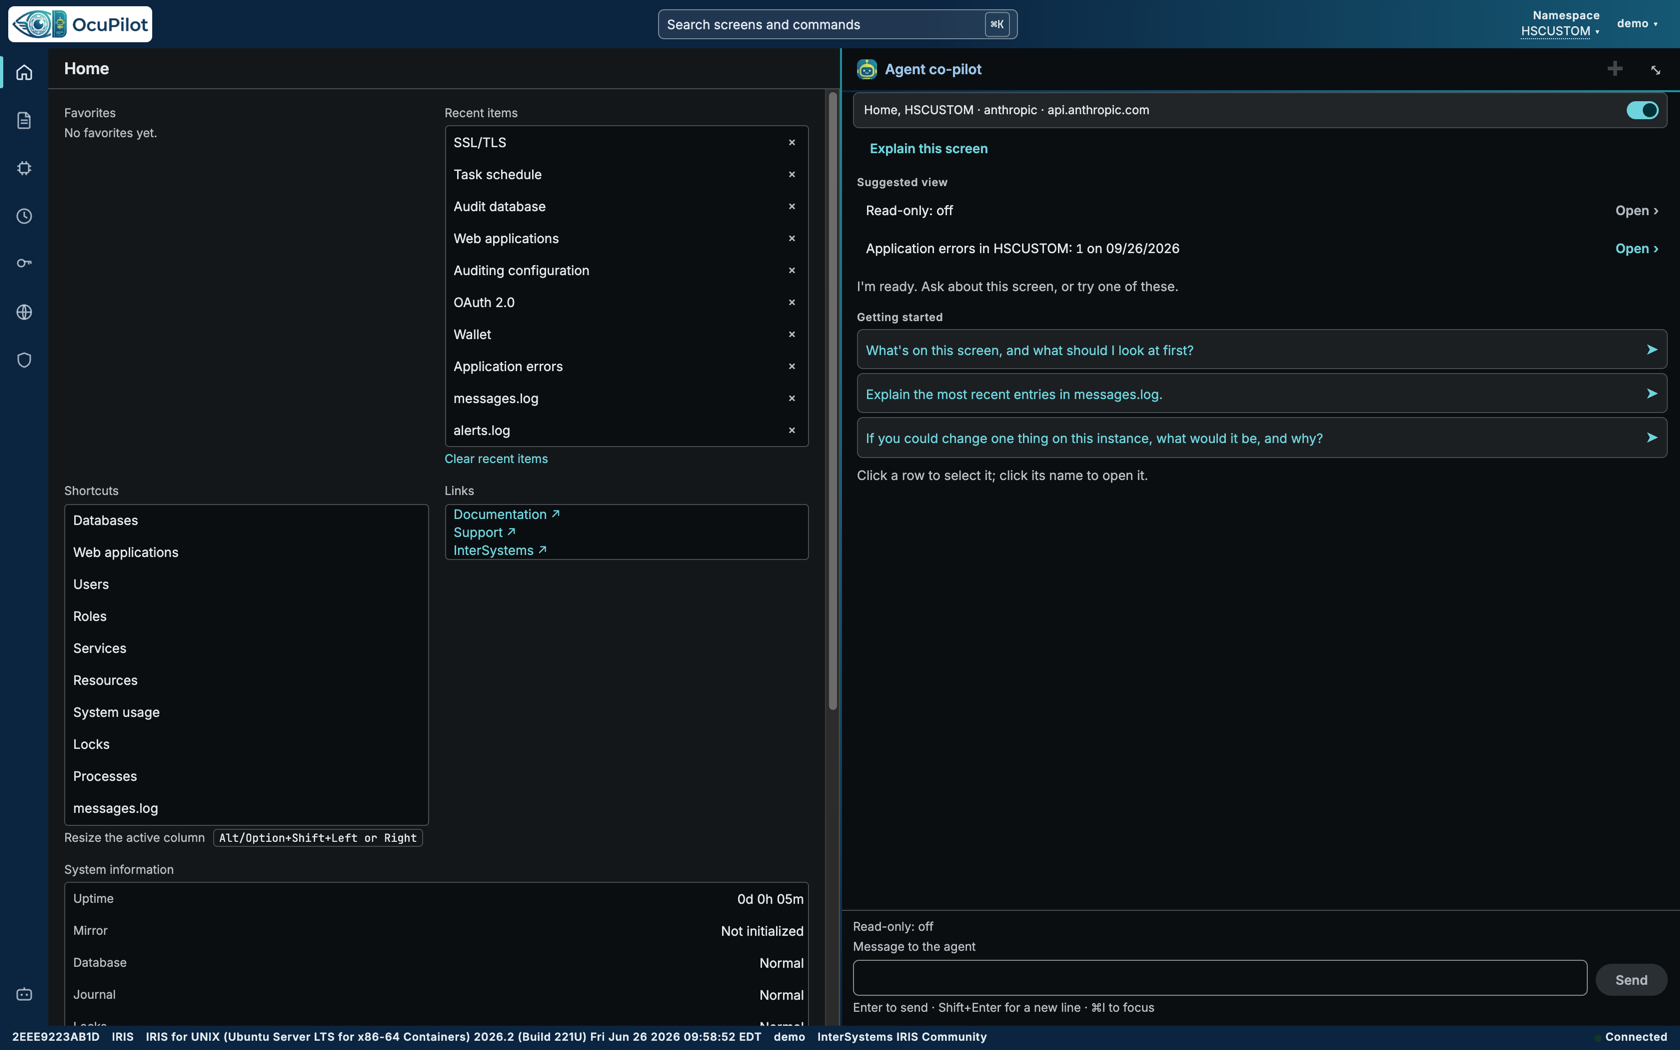
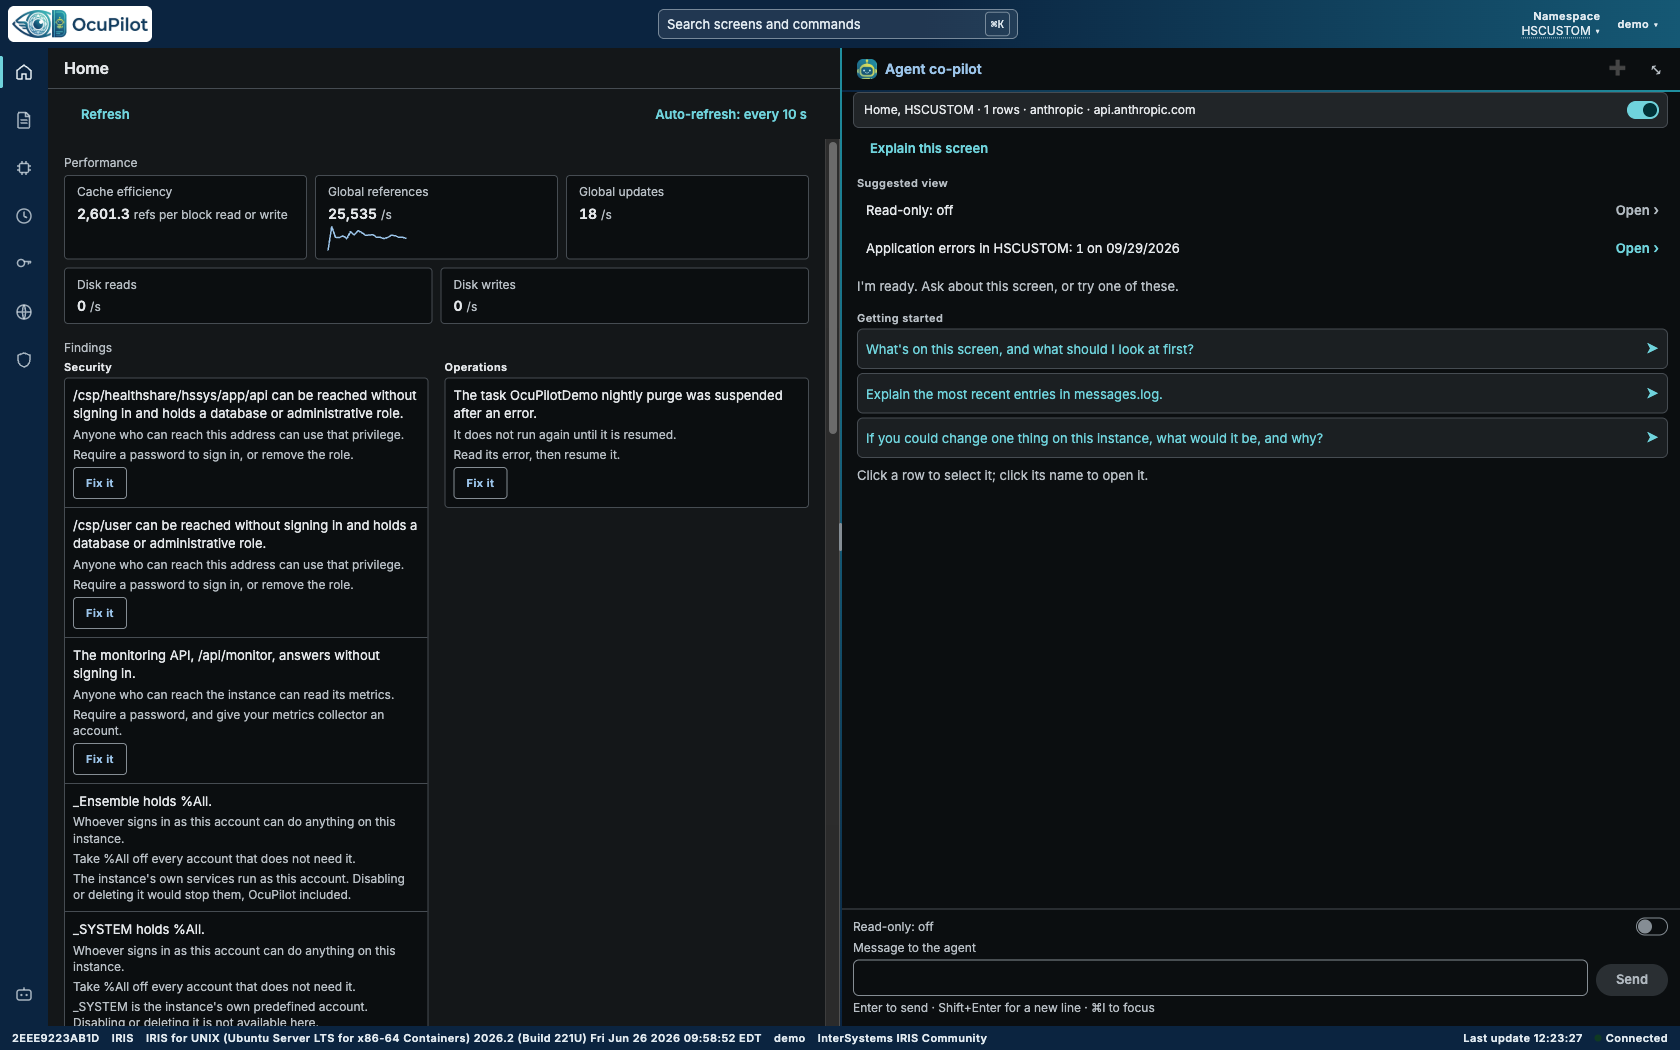
Docs: README for 1.0.3 - the 1.0.2 and 1.0.3 features in every section (governance, guardrails, findings, the log hub and six more logs, web sessions, background tasks, broadcast, dashboard and license usage, local databases, namespaces and mappings, task export and import, effective privileges, try

diff --git a/README.md b/README.md
@@ -23,7 +23,9 @@ OcuPilot is an Angular portal served from the IRIS instance itself, with an Obje
 behind it. It covers the six areas named by InterSystems' ["Build Your Own Management
 Portal"](https://openexchange.intersystems.com/contest/48) contest - web applications, permissions,
 security and secrets, tasks, OS management and the logs - with list screens, row actions and full
-editors that work against live instance data.
+editors that work against live instance data. Home adds the instance's performance and a list of
+security and operational findings, each with a fix you can review, and a log hub merges every log
+the instance keeps into one timeline.
 
 A panel docked on the right of every screen holds the agent. It sees the screen you are on, answers
 questions about it from the rows in front of you, opens the screen a conversation is about, and
@@ -58,6 +60,30 @@ instance. Sign in as `demo` with the password `ocupilot-demo`. Or watch it first
 <details>
 <summary><b>More screenshots</b></summary>
 
+**What needs attention** - Home shows the instance's performance and its findings; **Fix it** asks
+the agent for a proposal, which waits for your Confirm.
+
+![Home with the performance row and the Security and Operations findings, each with a Fix it button.](docs/images/10-home-findings.png)
+
+**Every log in one timeline** - the unified log hub merges `messages.log`, the audit database and
+the other logs, newest first, and any entry can be explained.
+
+![The unified log hub's timeline, with messages.log and audit database entries interleaved newest first.](docs/images/11-log-hub.png)
+
+**The dashboard** - performance, system usage, errors, licensing and the Task Manager at a glance.
+
+![The dashboard with CPU, global references, disk and journal meters, license use and their states.](docs/images/12-dashboard.png)
+
+**The guardrails, in one place** - what the agent and the screens refuse, what always needs your
+Confirm and what is never sent to the model, read from the rules the instance enforces.
+
+![The Guardrails page listing the changes refused outright, each with its reason and code.](docs/images/13-guardrails.png)
+
+**Who can do what** - a user's effective privileges, each resource with the role or public
+permission that grants it, and **Check permission** for any user or role.
+
+![The user editor's Effective privileges tab for operator, listing each resource and the role that grants it.](docs/images/14-effective-privileges.png)
+
 **Asking about the screen you are on** - the agent reads the task schedule and history and explains
 what needs attention.
 
@@ -74,7 +100,7 @@ change and says what would be needed; Home marks the screens this user may not o
 
 **Light and dark** - every screen in both themes.
 
-![Home in the dark theme, with suggested questions in the agent panel.](docs/images/07-dark-home.png)
+![Home in the dark theme, with the performance row, the findings and suggested questions in the agent panel.](docs/images/07-dark-home.png)
 
 </details>
 
@@ -89,6 +115,8 @@ change and says what would be needed; Home marks the screens this user may not o
    change is there.
 7. Sign out, sign in as `operator` / `ocupilot-operator`, and ask for the same change: the agent
    explains what that account would need instead.
+8. Open **Agent co-pilot → Guardrails** to see what the agent may never do, and what always waits
+   for your Confirm.
 
 ## Why OcuPilot
 
@@ -97,31 +125,49 @@ change and says what would be needed; Home marks the screens this user may not o
   unauthenticated?" is answered from the data in front of you, and every screen offers an
   **Explain this screen** prompt and suggested questions.
 - **Changes are proposals, never surprises.** A write appears as a card with the target, an
-  instance-computed before-and-after diff, the privilege it needs and how to reverse it. The agent
-  cannot confirm its own proposal: Confirm comes only from you, in your browser or a script signed
-  in as you.
+  instance-computed before-and-after diff, the privilege it needs and how to reverse it. A removal
+  also says what depends on it ("Impact: 3 users hold it: ..."). The agent cannot confirm its own
+  proposal: Confirm comes only from you, in your browser or a script signed in as you. If your
+  changes go through your own process, **Give me the script instead** turns the proposal into a
+  REST or ObjectScript script and changes nothing.
 - **It acts as you, and it is on the record.** A confirmed change runs with your roles, never an
   elevated service account. Each one is recorded in the IRIS audit database as
-  `OcuPilot/Security/AgentWrite`, and the screen marks the changed row.
+  `OcuPilot/Security/AgentWrite`, the screen marks the changed row, and a read-back line says
+  whether the instance now holds what was written.
 - **Guardrails that live on the instance.** OcuPilot refuses, on the server, changes that would
   lock you out or break it: the last `%All` holder, `_SYSTEM`, the signed-in user, the service
   accounts, OcuPilot's own applications, roles, resources and processes. An administrator can stop
-  the agent everywhere with a kill switch, or hold it read-only.
+  the agent everywhere with a kill switch, hold it read-only, switch off individual agent writes,
+  and cap how many turns each user runs an hour; anyone can make the agent read-only for
+  themselves. Four agent actions ship switched off - deleting a local database, deleting a
+  namespace, importing tasks and purging the audit database - and an administrator turns them on
+  under **Agent co-pilot → Governance policy**. The **Guardrails** page shows all of it in one
+  place.
+- **Findings you can fix.** Home checks for open web applications, an open monitoring API, accounts
+  holding `%All`, certificates that expire within 30 days, auditing switched off, dismounted or
+  nearly full databases, the Task Manager's state and suspended tasks. Where a fix exists, **Fix
+  it** asks the agent for a proposal; nothing changes until you confirm it.
 - **Bring your own model.** Anthropic, OpenAI, Google Gemini, or any OpenAI-compatible endpoint -
   including a model on your own network, which keeps screen data and log text inside it.
 - **A portal that feels current.** A VS Code-shaped shell, a command palette (`Ctrl+K`),
-  favorites and recent items, resizable columns, per-screen help, and a light and a dark theme.
+  favorites and recent items, resizable columns, **Download CSV** on every table, per-screen help,
+  and a light and a dark theme.
 
 ## The six areas
 
 | Area | Screens | What you can do |
 | --- | --- | --- |
-| Web applications | Web applications, REST API explorer, OpenAPI document viewer | Create, edit, enable, disable and delete applications; browse every REST application's endpoints |
-| Permissions | Users, roles, resources, services | Create and edit users and roles, set passwords, grant and revoke roles and resource permissions, enable and disable services |
-| Security and secrets | SSL/TLS, X.509 credentials, wallet, OAuth 2.0 (client server descriptions, client configurations, resource servers, the authorization server, server client descriptions), LDAP, auditing | Editors for each, SSL/TLS and LDAP connection tests, OAuth token revocation, audit event configuration, and audit database copy and purge |
-| Tasks | Task schedule, on-demand tasks, upcoming tasks, task history, task details | A New Task wizard, edit, run, suspend, resume and delete |
-| OS management | Processes, process details, locks, system usage, databases, devices | Suspend, resume and terminate processes; edit devices; free space per database |
-| Logs | `alerts.log`, `messages.log` and its older files, application errors, the audit database | Search and page each log, filter the audit database to agent writes, delete application errors, and ask the agent to explain any entry |
+| Web applications | Web applications, web sessions, REST API explorer, OpenAPI document viewer | Create, edit, enable, disable and delete applications; end web sessions; browse every REST application's endpoints, send a request from its OpenAPI document and copy it as curl |
+| Permissions | Users, roles, resources, services | Create and edit users and roles, set passwords, grant and revoke roles and resource permissions, enable and disable services; see a user's effective privileges, and check whether a user or role holds a permission and through which role |
+| Security and secrets | SSL/TLS, X.509 credentials, wallet, OAuth 2.0 (client server descriptions, client configurations, resource servers, the authorization server, server client descriptions), LDAP, auditing, allowed directories | Editors for each, SSL/TLS and LDAP connection tests, OAuth token revocation, audit event configuration, and audit database copy and purge |
+| Tasks | Task schedule, on-demand tasks, upcoming tasks, task history, task details, background tasks | A New Task wizard, edit, run, suspend, resume and delete; export and import tasks; pause, resume and cancel background tasks |
+| OS management | Processes, process details, locks, system usage, dashboard, license usage, databases, local databases, namespaces, devices | Suspend, resume and terminate processes; broadcast a message to terminal sessions; create, edit and delete local databases, optionally with their files; create, edit and delete namespaces and their global, routine and package mappings, and copy mappings between namespaces; edit devices; free space per database |
+| Logs | A unified log hub; `alerts.log`, `messages.log` and its older files, application errors, the audit database, and six more: the System Monitor log, background task errors, xDBC errors, SQL diagnostics, the interoperability event log and the analytics log | See every log in one list and one timeline, newest first; search and page each log, filter the audit database to agent writes, delete application errors, and ask the agent to explain any entry |
+
+Two more areas sit beside the six. **Home** shows the instance's performance, refreshing itself,
+and its findings. **Agent co-pilot** holds the agent's definitions, switches and governance policy
+for administrators, and for everyone the Guardrails page, your transcripts, and the agent audit
+ledger of each model call, tool call and confirmed write.
 
 ## Quick start
 
@@ -195,6 +241,11 @@ Since 1.0.2, OcuPilot removes agent conversations older than each agent definiti
 from before the update. To keep them longer, raise **Retention** on the definition in **Agent
 co-pilot → Agent definitions** right after you update.
 
+In 1.0.3, the agent's local database delete, namespace delete, task import and audit purge start
+switched off, on an update as on a new install, unless you already set them explicitly. The screens
+themselves still do all four; to let the agent propose them, turn them on under **Agent co-pilot →
+Governance policy**.
+
 ## Get a model key in two minutes
 
 | Provider | Default model | Where to get a key |
@@ -255,6 +306,8 @@ OcuPilot is an administration tool, so it says plainly what it adds to an instan
   `/api/ocupilot/readiness`.
 - **Two privileged routine applications**, `OcuPilotState` and `OcuPilotIdentity`, a global mapping
   and an SSL/TLS configuration, `OcuPilotProvider`, for model calls.
+- **One scheduled task**, "OcuPilot transcript retention", which runs at 03:15 each night and removes
+  agent conversations and their records once they are older than each definition's **Retention**.
 - **Auditing is switched on** if it was off, and OcuPilot registers its own audit events
   (`OcuPilot/Security/AgentWrite`, `ConfigChange`, `SecurityChange`, `RoleGranted`, `LedgerRead`).
   This is a deliberate change to the instance's security posture: an agent write that could not be
@@ -274,8 +327,9 @@ Uninstalling (`zpm "uninstall ocupilot"`) removes what the installer created.
 
 3. **Press Confirm.** OcuPilot re-checks that you still hold the privilege, that the target has not
    changed since the proposal was made, and that the change is not prohibited, then runs it as you.
-4. **The screen refreshes** and marks `/csp/myapp` as Changed; the panel shows the change done and
-   audit-marked, confirmed by you.
+4. **The screen refreshes** and marks `/csp/myapp` as Changed, with a read-back line that says the
+   instance now holds the new values; the panel shows the change done and audit-marked, confirmed by
+   you.
 
    ![The Web applications list with /csp/myapp enabled and marked Changed, and the confirmed proposal in the panel.](docs/images/03-changed.png)
 
@@ -298,6 +352,13 @@ the read-only state changes.
   one asks you for it on the proposal card, and it travels only with your Confirm.
 - **Where it goes:** to the model provider you configured, and nowhere else. A definition marked
   local sends nothing off your network.
+- **Content is data, not instructions.** Log lines, field values and everything else a tool returns
+  are cleaned and marked as data before they reach the model, so text planted in a log cannot pose
+  as an instruction. Tests plant such text in every source the agent reads and check that it is not
+  obeyed.
+- **How long it is kept:** conversations are removed once they are older than the agent
+  definition's **Retention** (30 days unless you change it). You can read your own transcripts; an
+  administrator can read everyone's, and each such read is recorded.
 
 ## From a script
 
@@ -324,6 +385,10 @@ curl -s -u demo:ocupilot-demo $B/turn/$T/progress | jq '{state, reply, proposals
 
 Against your own install, use `http://localhost:52774/api/ocupilot` and your own account.
 
+For any other REST application on the instance, the OpenAPI document viewer's **Try it** sends a
+request from the portal, and **Copy as curl** gives you the same request for a script, with the
+token and hidden values left as placeholders.
+
 ## How it is built
 
 ![How OcuPilot is built: the browser calls /api/ocupilot with a JWT; the API reads and writes through the IRIS management APIs as the user, starts the agent turn as a background job that exchanges screen context and tools with the model provider and mints proposals on the instance, and records agent writes in the IRIS audit database.](docs/images/09-architecture.png)
@@ -340,20 +405,21 @@ Against your own install, use `http://localhost:52774/api/ocupilot` and your own
   described in the [published specification](https://github.com/intersystems-community/sysadmin-api-specification).
   OcuPilot runs the same endpoint classes, validation and permission checks the REST service
   dispatches to, in process and as the signed-in user, so there is no second sign-in, token or CORS
-  setup. What the admin API does not serve is read directly: `messages.log` and `alerts.log` from
-  the instance's manager directory, and the REST API explorer's applications and OpenAPI documents
-  from the logic behind `/api/mgmnt`.
+  setup. What the admin API does not serve is read directly: `messages.log`, `alerts.log` and the
+  other logs from the instance's own files and tables, and the REST API explorer's applications and
+  OpenAPI documents from the logic behind `/api/mgmnt`.
 - **The model never writes.** An agent turn runs in a background job that can only read and
   propose. Writes happen in a separate request that only your Confirm makes.
 
 ## Quality
 
-- **Continuous integration on every push:** five GitHub Actions jobs build and test the client on
-  each supported Node release, run the full ObjectScript suite against a fresh IRIS container, drive
-  the portal in headless Chrome, compile and smoke-test on both IRIS Community and IRIS for Health
-  Community, and build and load the IPM package offline.
-- **Tests:** 287 `%UnitTest` classes run inside IRIS; 76 Node test files and 106 Angular component
-  specs cover the client; 92 browser specs exercise the running portal.
+- **Continuous integration on every push:** GitHub Actions builds and tests the client on each
+  supported Node release, runs the full ObjectScript suite against fresh IRIS containers, drives the
+  portal in headless Chrome, compiles and smoke-tests on both IRIS Community and IRIS for Health
+  Community, and builds and loads the IPM package offline. The two long suites each run across three
+  containers at once, so a full run takes about 20 minutes.
+- **Tests:** 363 `%UnitTest` classes run inside IRIS; 97 Node test files and 134 Angular component
+  specs cover the client; 126 browser specs exercise the running portal.
 - **A smoke test you can run:** `bash scripts/smoke.sh --container ocupilot --user _SYSTEM
   --password SYS` asks the running instance whether OcuPilot works; the assertions live inside
   IRIS, so CI and your machine ask the same question.
@@ -396,9 +462,10 @@ that carry Community Opportunity status:
 ## Known limitations
 
 - **One instance at a time.** OcuPilot manages the instance it is installed on.
-- **Not every portal page yet.** Namespaces, database configuration, journals, mirroring and
-  Interoperability are still the classic portal's; the LDAP and Kerberos and the service editors
-  cover the common fields and link to the classic page for the rest.
+- **Not every portal page yet.** Remote databases, the disk operations (mount, compact, the
+  integrity check and the rest), journals, encryption, mirroring and Interoperability are still the
+  classic portal's; the LDAP and Kerberos and the service editors cover the common fields and link to
+  the classic page for the rest.
 - **A model is needed for the agent.** Every screen works without one; the agent needs a key or a
   local model. A turn that makes a change can take up to a minute, and a small local model may
   propose changes that need correcting.
@@ -416,18 +483,19 @@ that carry Community Opportunity status:
 
 ## Roadmap
 
-Improvements continue through the contest's voting week, released to `main` in tested batches:
+New releases arrive every few days, each installed and tested on a clean machine before it reaches
+`main`. Next:
 
-- a try-it console that sends a request from the REST API explorer;
-- a read-back line showing that the instance now holds what a change wrote;
-- a performance row on Home, and impact lines on removals ("3 users hold this role");
-- the remaining log viewers and a unified log hub;
-- the agent handing you a script instead of running a change, and tests that content the agent
-  reads cannot steer it.
+- **Databases and disks:** remote databases, and mount, dismount, compact, defragment, expand and
+  the integrity check.
+- **The rest of system operation:** journals, licensing and ECP, encryption, superservers and
+  authentication options.
+- **The remaining editors:** the service editor and the LDAP and Kerberos editor in full, external
+  language servers, starting and suspending the Task Manager, and removing locks.
+- **Permissions and monitoring:** SQL privileges, the raw metrics, and a live log tail.
 
-Beyond the contest, OcuPilot grows toward parity with the classic portal: the rest of the admin API
-(namespaces, databases, journals, encryption), a code and SQL explorer, Interoperability, and every
-remaining portal page.
+After that, OcuPilot grows toward parity with the classic portal: a code and SQL explorer,
+Interoperability, and every remaining portal page.
 
 ## Developing OcuPilot
 
